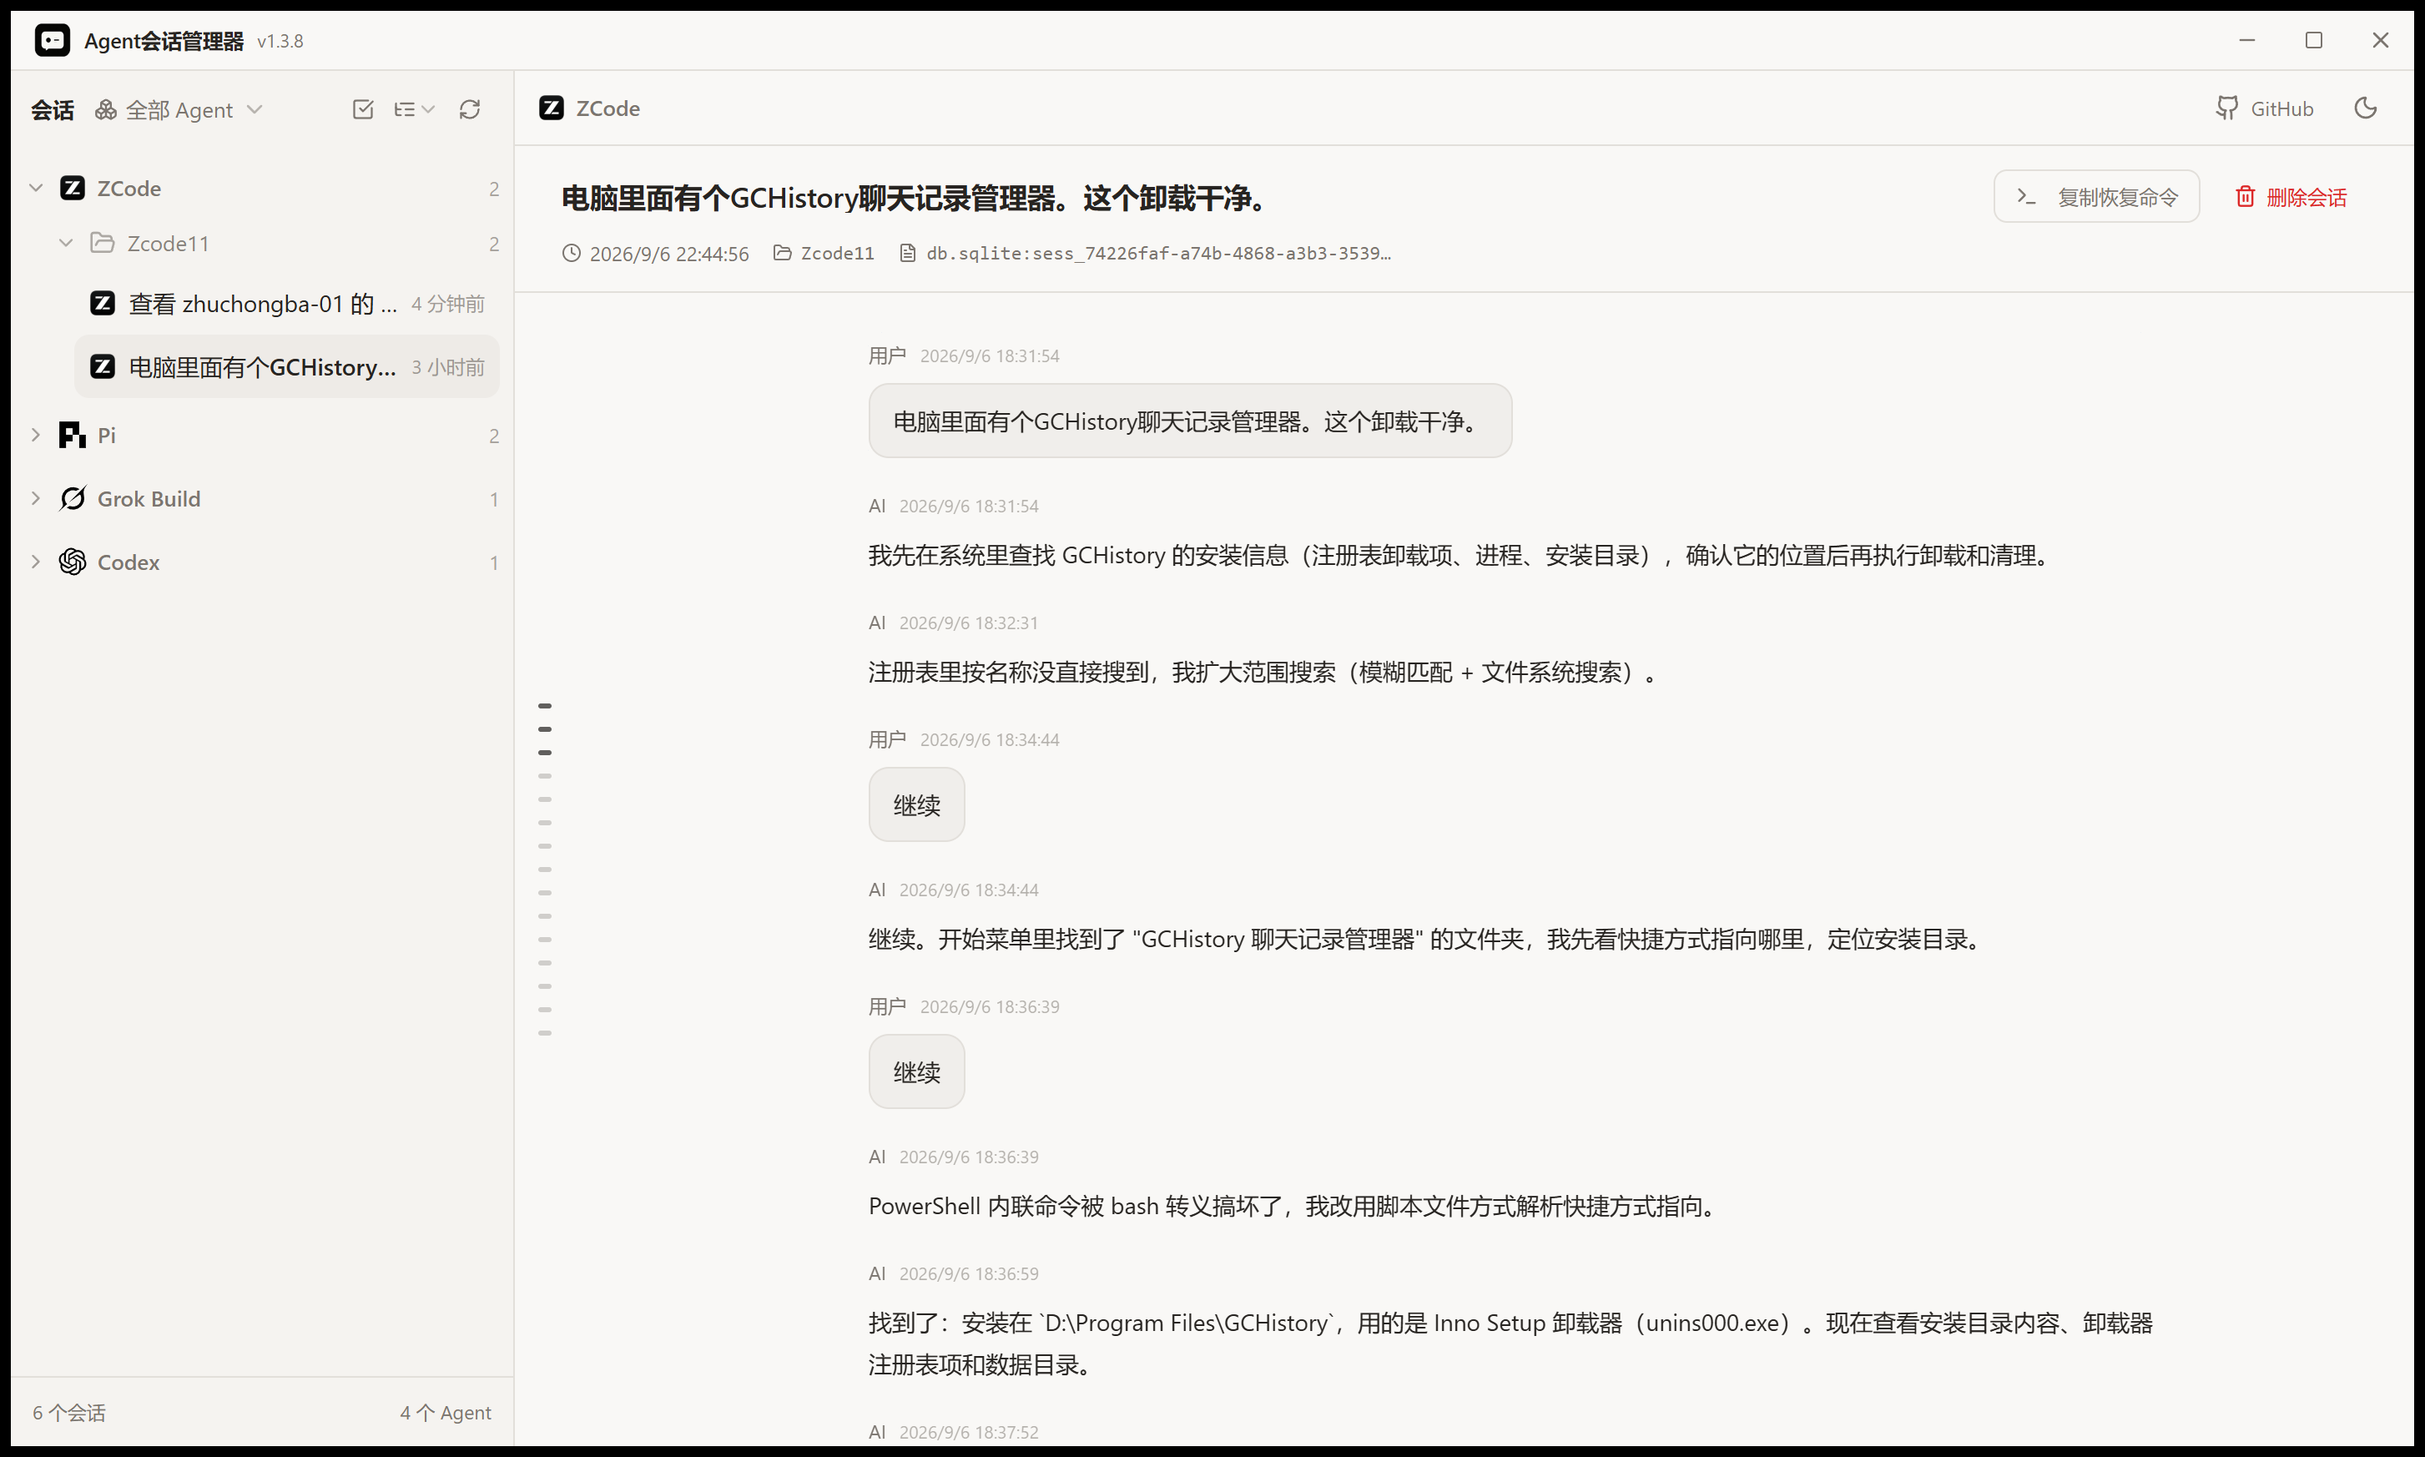
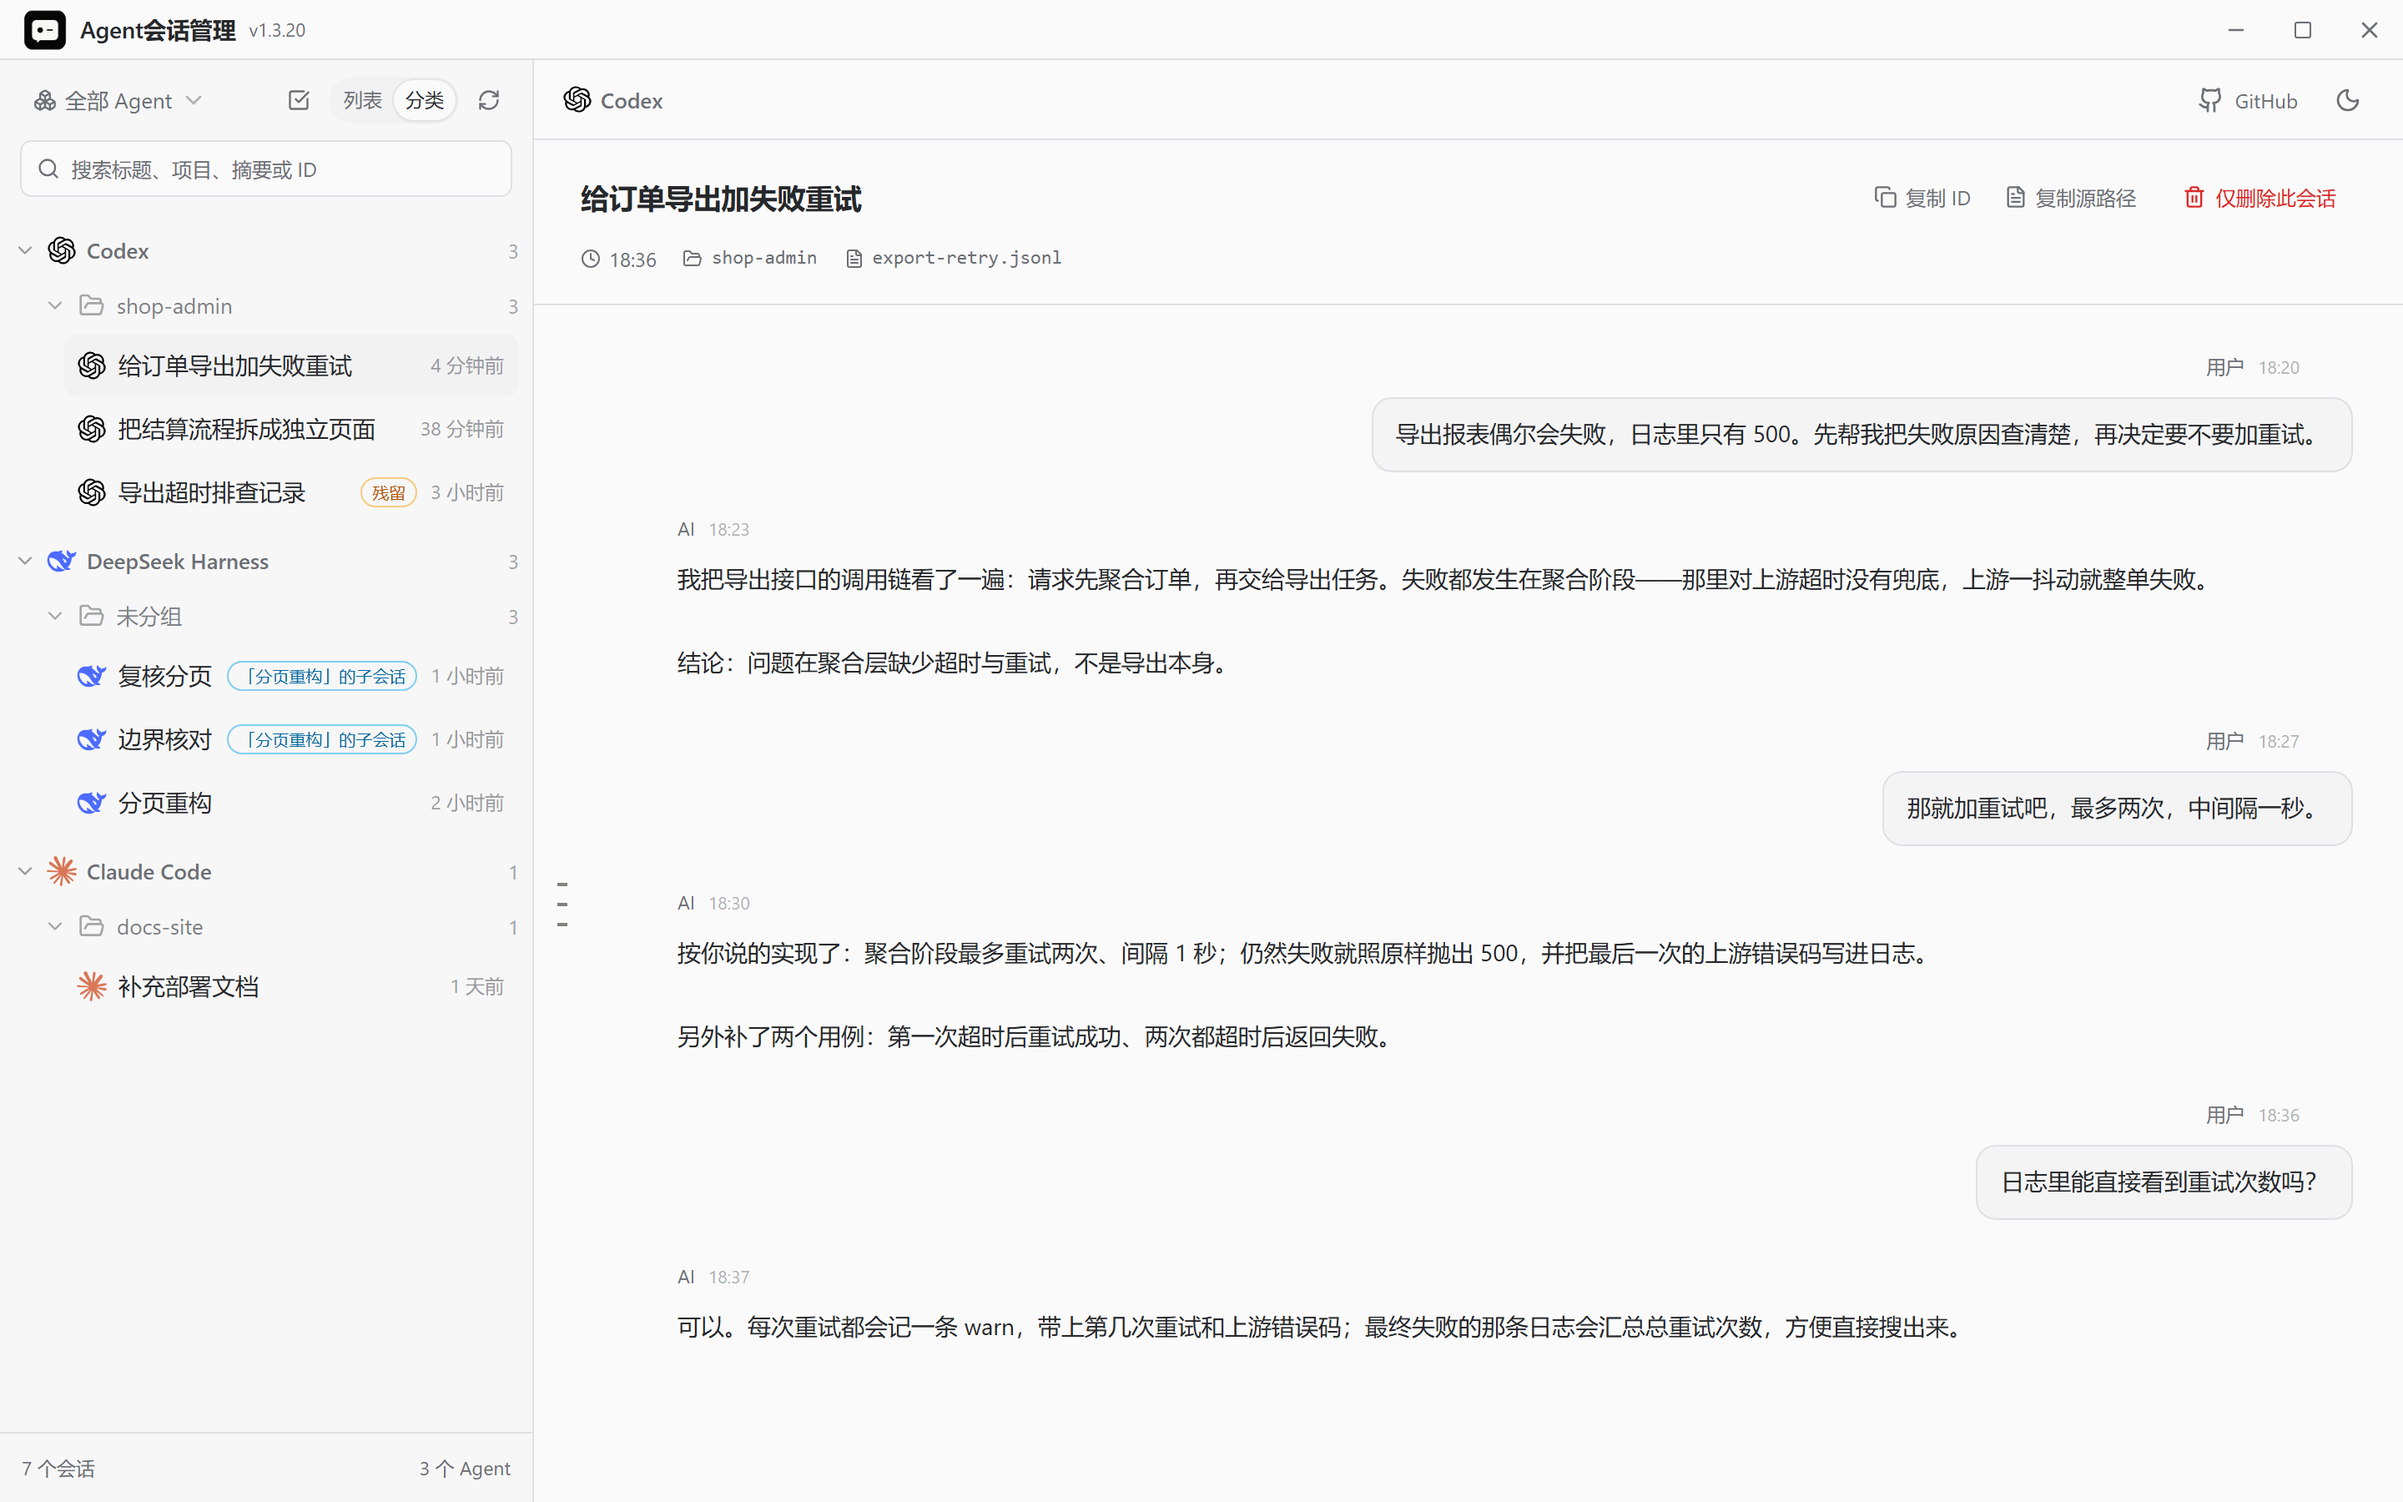
docs: refresh the README screenshot and fix a collapsed bullet
- 截图更新到 v1.3.20。旧图是 v1.3.8（窗口标题还是老名字，右上角还挂着已经删掉的
  「复制恢复命令」按钮）。新图用**同一份前端产物 + 完全虚构的会话数据**渲染，不含
  本机任何会话标题、路径或对话内容。
- 第 53 行两个要点写在了同一行，页面上会渲染成一个条目（第二个「💻 会话数据留在
  本机」被吞进上一句）。
- 标题与图标 alt 统一成产品名「Agent会话管理」，与安装后的程序名、快捷方式、窗口
  标题一致。

diff --git a/README.md b/README.md
@@ -1,8 +1,8 @@
 <div align="center">
 
-<img src="src-tauri/icons/icon.png" width="128" alt="Agent 会话管理图标"/>
+<img src="src-tauri/icons/icon.png" width="128" alt="Agent会话管理图标"/>
 
-# Agent 会话管理
+# Agent会话管理
 
 **Codex、Claude Code、DeepSeek Harness 等本地编码 Agent 的会话管理工具**
 
@@ -16,7 +16,7 @@
 
 ![主界面](docs/images/main-window.png)
 
-*主界面：左侧按 Agent 与项目分组的会话列表，中间会话缩略导航，右侧完整会话详情。*
+*主界面：左侧按 Agent 与项目分组的会话列表（子会话会标出所属的父会话），中间会话缩略导航，右侧完整会话详情。*
 
 </div>
 
@@ -50,7 +50,8 @@ Windows 下 `~` 即 `%USERPROFILE%`。本管理器只读取上述文件，不改
 - 📚 **长历史可控**：会话列表每页最多显示 100 条，消息按可视区域渲染。
 - 🧾 **删除前逐条核对**：批量删除的确认框逐条列出待删会话；数量超过 50 条时列不全的部分会明确标注，并要求勾选「已核对」才能确认。
 - 👨👧 **子会话看得懂归属**：DeepSeek Harness、Grok Build、OpenCode 的子 Agent 会话不再只显示「残留」，行内直接标出「某某会话的子会话」（悬停看完整归属）；删除父会话时确认框询问是否连同全部子会话一起删除，确认后一次清理整条链，不必先手动逐条删。
-- 🔗 **只摘链接、不跟随**：会话路径若是符号链接，删除只移除链接本身，不会动到链接指向的真实数据。- 💻 **会话数据留在本机**：扫描、展示与摘要全部在本机完成，不上传会话内容；启动时仅访问 GitHub API 检查新版本。
+- 🔗 **只摘链接、不跟随**：会话路径若是符号链接，删除只移除链接本身，不会动到链接指向的真实数据。
+- 💻 **会话数据留在本机**：扫描、展示与摘要全部在本机完成，不上传会话内容；启动时仅访问 GitHub API 检查新版本。
 
 删除前请完全退出对应 Agent（包括后台进程、终端任务），并自行备份重要会话。详细边界见 [SAFETY.md](./SAFETY.md)。
 
